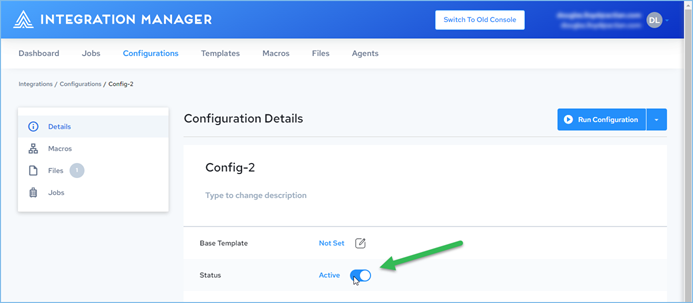
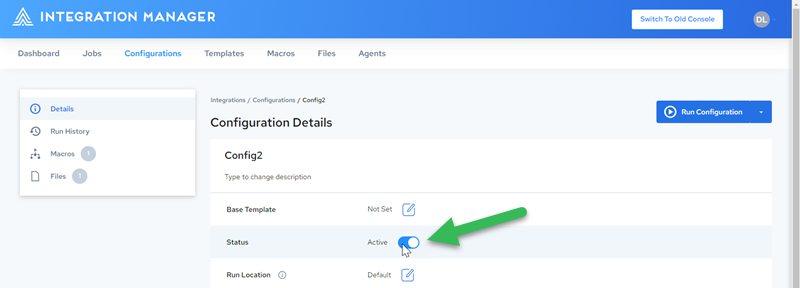
Updates for new UI

diff --git a/docs/integration-manager/configurations/activating-or-inactivating-configurations.md b/docs/integration-manager/configurations/activating-or-inactivating-configurations.md
@@ -10,17 +10,15 @@ You can set the configuration status to Active or Inactive from either the **Con
 
 ## From the Configurations Page
 
-1. Select the **Configurations** tab.
-   
-   The **Configurations** page displays the available configurations. The **Active** column indicates whether the configuration is currently Active or Inactive. 
-2. Click the dropdown arrow next to the **Run** button for the desired configuration.
-3. Select **Inactive** to inactivate a currently-active configuration, or select **Active** to reactivate a currently-inactive configuration:
+1. Select the **Configurations** tab. The **Configurations** page displays the available configurations. The **Active** column indicates whether the configuration is currently Active or Inactive. 
+2. Click the ellipsis on the right of the desired configuration.
+3. Select **Set as Inactive** to inactivate a currently-active configuration, or select **Set as Active** to reactivate a currently-inactive configuration:
 
-   ![Configuration Set Active](/img/Configuration-Set-Active.png)
+   ![](/img/Configuration-Set-Inactive.png)
 
 4. The **Active** column is updated to show the current active status:
 
-   ![Configuration Set Active 2](/img/Configuration-Set-Active2.png)
+   ![](/img/Configuration-Set-Inactive2.png)
 
 ## From the Configuration Details Page
 
@@ -28,21 +26,27 @@ You can set the configuration status to Active or Inactive from either the **Con
 2. Click the configuration that you want to edit.
 3. On the **Configuration Details** page, toggle the **Status** to **Active** or **Inactive**:
 
-   ![Configuration Status Toggle](/img/Configuration-Status-Toggle.png)
+   ![](/img/Configuration-Status-Toggle.png)
 
 ## From the Template Configurations Page
 
 1. Select the **Template** tab.
 2. Click the template that you want to edit.
-3. On the **Template Configurations** page, select the desired configuration(s), click the dropdown arrow next to the **Run** button above the list, then select **Active** or **Inactive**:
+3. Click **Configurations** in the left panel:
 
-   ![](/img/Template-Configuration-Set-Active.png)
+   ![](/img/Template-Configurations-Link1.png)
+
+4. On the **Template Configurations** page, select the desired configuration(s), click the dropdown arrow next to the **Run** button above the list, then select **Active** or **Inactive**.
+
+     ![](/img/Template-Configuration-Set-Inactive.png)
 
 ## Activivating/Inactivating Multiple Configurations
 
-1. Select the checkbox to the left of the desired configurations.
-2. Click the dropdown arrow next to the common **Run** button on the top right of the Configurations list, and then select **Inactive** or **Active**:
+1. On the **Configurations** page, do one of the following:
+   
+   * Select the checkboxes next to the desired **Active** configuration(s), then click <img src="/img/icons/inactive.png" className="icon" alt="the Inactive icon"/> to set as Inactive.
 
-   ![Configuration Set Active Multiple](/img/Configuration-Set-Active-Multiple.png)
+     ![](/img/Configurations-Set-Active1.png)
+   * Select the checkboxes next to the desired **Inactive** configuration(s), then click <img src="/img/icons/active.png" className="icon" alt="the Active icon"/> to set as Active.
 
-
+     ![](/img/Configurations-Set-Active2.png)
